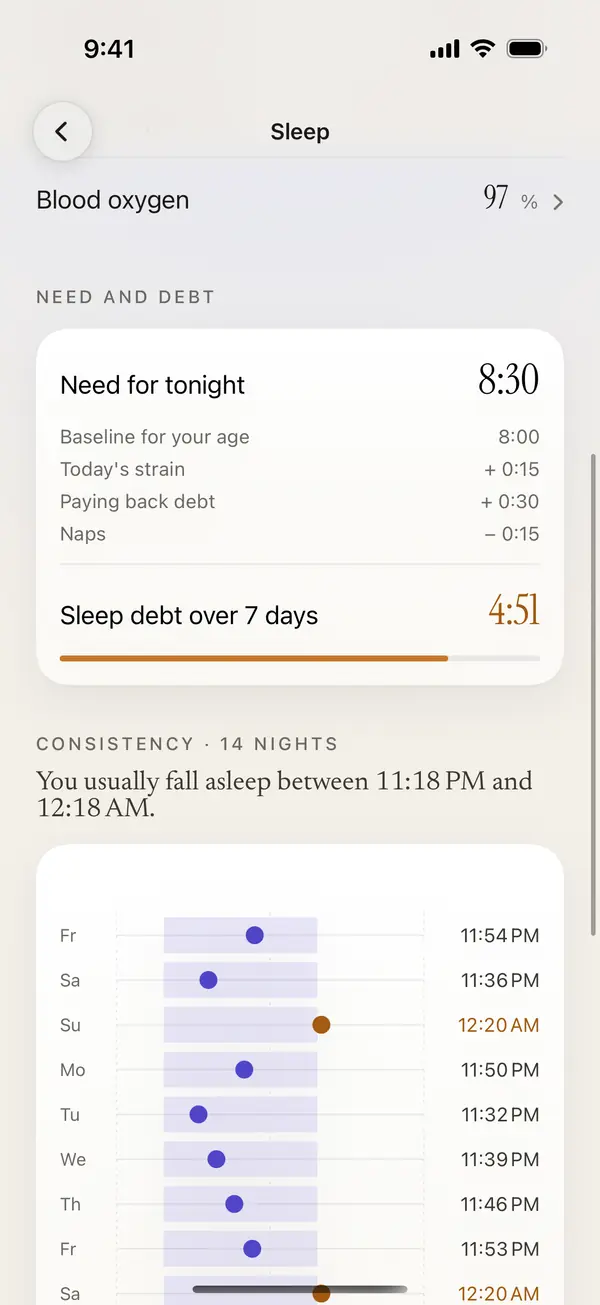
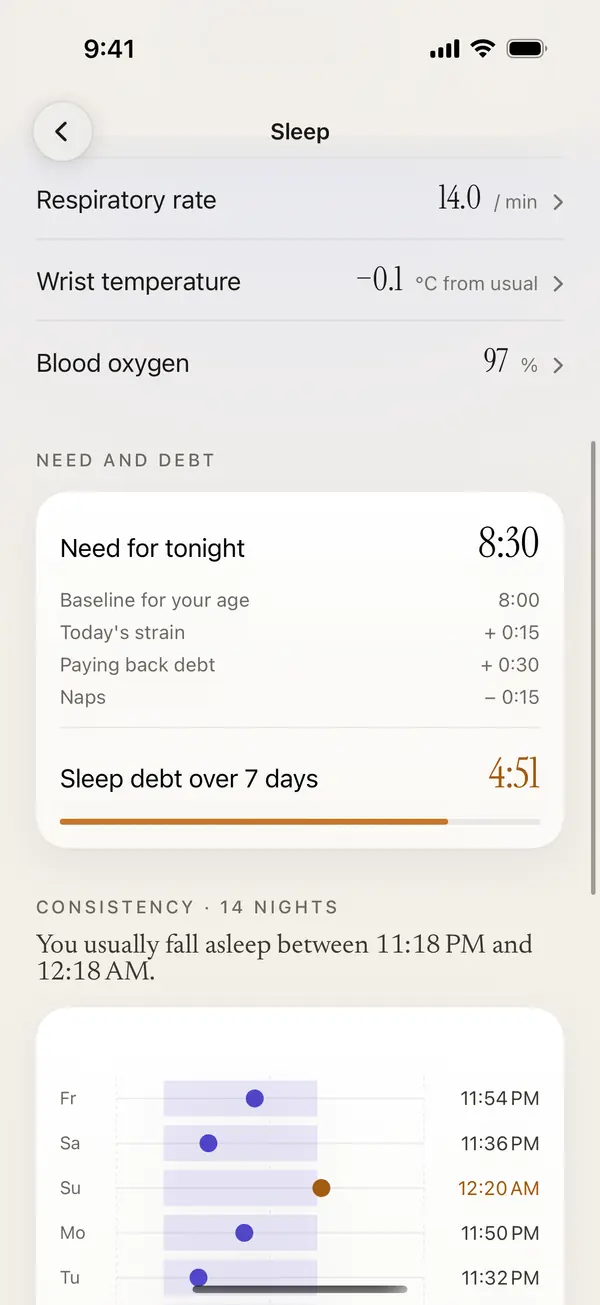
Sleep: the sample night's stages; website cards copy the phone screen beside them (#446)
* Sleep: the sample night's stages through the night, and the website's sleep card in the app's rows

The sample day had no night detail, so the app's sleep screen (and the website phone) showed no stage
rows; DemoData.night gives it the same night's segments. The website's sleep card draws the stages one
row each like the app's Hypnogram, with the app's stage colours and bars against the longest stage.

Claude-Session: https://claude.ai/code/session_01VXZ2habenS74XXVjvWeuNu

* Website: the sleep need, readiness and food cards copy the screen on the phone beside them

Need and debt as on Spánek, What makes up today's score as on Připravenost, and the Food tab's
number, coach and macros (the sample day's 177/84/36 g) instead of cards from other screens.

Claude-Session: https://claude.ai/code/session_01VXZ2habenS74XXVjvWeuNu

* Website: the sleep screens again, now with the sample night's stages (iOS run 40209564135)

Claude-Session: https://claude.ai/code/session_01VXZ2habenS74XXVjvWeuNu

---------

diff --git a/src/site-demos.js b/src/site-demos.js
@@ -71,24 +71,29 @@ const AURIN = '<span class="lg au"><svg viewBox="6 10 88 80"><path d="M6 46A36 3
 const STATUS = '<div class="sb"><span>9:41</span><span class="sbi"><svg viewBox="0 0 18 12"><rect x="0" y="8" width="3" height="4" rx=".7"/><rect x="5" y="5.5" width="3" height="6.5" rx=".7"/><rect x="10" y="3" width="3" height="9" rx=".7"/><rect x="15" y="0" width="3" height="12" rx=".7"/></svg><svg viewBox="0 0 24 12"><rect x=".5" y=".5" width="20" height="11" rx="3" fill="none" stroke="currentColor"/><rect x="2" y="2" width="16" height="8" rx="1.8"/><rect x="22" y="4" width="1.5" height="4" rx=".7"/></svg></span></div>';
 
 // ---- Sleep (SleepPlanner.swift, HealthDetails.swift) ----
-// The night: stages in the app's indigo shades, the hypnogram drawing itself, the length counting up.
+// The night: stages in the app's indigo shades, the stages through the night one row each (Hypnogram), the
+// length counting up. NIGHT is the sample night's segments (DemoData.night): stage, start, end in minutes.
+const NIGHT = [['l', 0, 12], ['d', 12, 40], ['l', 40, 62], ['r', 62, 74], ['a', 74, 77], ['l', 77, 100], ['d', 100, 130],
+  ['l', 130, 158], ['r', 158, 178], ['l', 178, 210], ['d', 210, 228], ['l', 228, 262], ['r', 262, 284], ['a', 284, 290],
+  ['l', 290, 330], ['d', 330, 337], ['l', 337, 370], ['r', 370, 400], ['a', 400, 405], ['l', 405, 436], ['r', 436, 446], ['a', 446, 449]];
 const sleepNight = `<div class="dm pad">
 <div class="sl">Sleep · Thursday night</div>
 <div class="row base"><span class="num big"${n(400, 432, 150, 1300, 'hmc')}>7:12</span><span class="pill ind"${at('1300')}>score 82</span></div>
-<svg class="hyp" viewBox="0 0 340 70" aria-hidden="true"><path pathLength="1"${at('300')} d="M2 20 H22 V34 H48 V58 H86 V34 H110 V8 H126 V34 H150 V58 H176 V34 H204 V8 H226 V34 H252 V46 H262 V34 H286 V8 H312 V20 H338"/></svg>
-<div class="stg">${[['Deep', '1:23', 19, 'd'], ['REM', '1:34', 22, 'r'], ['Light', '4:15', 59, 'l'], ['Awake', '0:17', 4, 'a']].map(([k, v, p, c], i) => `<div class="sr"><span>${k}</span><i class="bar"><b class="${c}" style="--w:${p}%"${at(String(900 + i * 220))}></b></i><span class="num">${v}</span><span class="mut">${p} %</span></div>`).join('')}</div>
+<div class="hg" aria-hidden="true"><div class="hgl"><span>Awake</span><span>REM</span><span>Light</span><span>Deep</span></div><div class="hgt">${NIGHT.map(([t, s, e], i) => `<i class="${t}" style="left:${(s / 449 * 100).toFixed(2)}%;width:${Math.max(0.5, (e - s) / 449 * 100).toFixed(2)}%"${at(String(300 + i * 60))}></i>`).join('')}</div></div>
+<div class="hgx" aria-hidden="true"><span>11:48 PM</span><span>7:02 AM</span></div>
+<div class="stg">${[['Deep', '1:23', 83, '19 %', 'd'], ['REM', '1:34', 94, '22 %', 'r'], ['Light', '4:15', 255, '59 %', 'l'], ['Awake', '0:17', 17, '3×', 'a']].map(([k, v, m, p, c], i) => `<div class="sr"><span>${k}</span><i class="bar"><b class="${c}" style="--w:${(m / 255 * 100).toFixed(1)}%"${at(String(900 + i * 220))}></b></i><span class="num">${v}</span><span class="mut">${p}</span></div>`).join('')}</div>
 </div>`;
 
 // "Why 8 h 30": the need for tonight built up row by row.
 const sleepNeed = `<div class="dm pad">
-<div class="row sp"><div class="sl">Why <span${n(480, 510, 600, 2600, 'hm')}>8 h 30</span></div><span class="mut s">tonight</span></div>
-<div class="list">
-<div class="li"${at('100')}><span>Your goal</span><b class="mono">8 h 00</b></div>
-<div class="li"${at('900')}><span>Today’s strain</span><b class="mono ind">+15 min</b></div>
-<div class="li"${at('1700')}><span>Sleep debt</span><b class="mono ind">+30 min</b></div>
-<div class="li"${at('2500')}><span>Nap</span><b class="mono grn">−15 min</b></div>
-</div>
-<div class="tot"${at('3300')}><span class="sent">Go to bed at</span><span class="num">10:10 PM</span></div>
+<div class="sl">Need and debt</div>
+<div class="nd"><div class="row sp base"><b class="nt">Need for tonight</b><span class="num md"${n(480, 510, 600, 2600, 'hmc')}>8:30</span></div>
+<div class="nr"${at('100')}><span>Baseline for your age</span><span class="mono">8:00</span></div>
+<div class="nr"${at('900')}><span>Today’s strain</span><span class="mono">+ 0:15</span></div>
+<div class="nr"${at('1700')}><span>Paying back debt</span><span class="mono">+ 0:30</span></div>
+<div class="nr"${at('2500')}><span>Naps</span><span class="mono">− 0:15</span></div>
+<div class="row sp base ndd"${at('3300')}><b class="nt">Sleep debt over 7 days</b><span class="num md amb">4:51</span></div>
+<i class="kbar"><b style="--w:82%"${at('3300')}></b></i></div>
 </div>`;
 
 // The bedtime dial: 24 h, midnight on top, the night arc in indigo from the moon to the sun. It turns on its
@@ -120,11 +125,11 @@ const tonight = `<div class="dm pad">
 const range = (pos, color, start) => `<i class="rb"><b></b><u style="--x:${pos}%;--c:var(--${color})"${at(String(start))}></u></i>`;
 const HIST = [65, 69, 60, 82, 67, 71, 62, 53, 75, 80, 63, 54, 77, 78];
 const readyParts = `<div class="dm pad">
-<div class="row sp"><div class="sl">Last 14 days</div><span class="mut s">average 68</span></div>
-<div class="hist">${HIST.map((v, i) => `<i style="--h:${v}%;--c:var(--${v >= 67 ? 'green' : v >= 34 ? 'amber-bar' : 'rust'})"${i === 13 ? ' class="today"' : ''}${at(String(100 + i * 70))}></i>`).join('')}</div>
-<div class="row base"><span class="num big"${n(0, 78, 1200, 1300, 'i')}>78</span><span class="pill grn"${at('2300')}>high</span><span class="mut s">today</span></div>
-${[['Sleep', '7:12', 'your normal 7:53–9:11 h', 'rust', 12, '−4 points'], ['Resting heart rate', '48 bpm', 'your normal 50–54 /min', 'green', 8, '+3 points'], ['HRV', '64 ms', 'your normal 55–61 ms', 'green', 72, '+9 points']]
-    .map(([k, v, nm, c, x, pt], i) => `<div class="pr2"${at(String(2600 + i * 700))}><div><b>${k}</b><span class="mut s">${nm}</span></div><span class="num md">${v}</span>${range(x, c, 2900 + i * 700)}<span class="pts" style="color:var(--${c})">${pt}</span></div>`).join('')}
+<div class="sl">Readiness</div>
+<div class="row base"><span class="num big"${n(0, 78, 200, 1300, 'i')}>78</span><span class="pill grn"${at('1300')}>high</span></div>
+<div class="sl">What makes up today’s score</div>
+${[['Sleep', '7:12', 'your normal 7:53–9:11 h', '↓ below normal', 'rust', 12, '−4 readiness points'], ['Resting heart rate', '48 bpm', 'your normal 50–54 /min', '↓ below normal', 'green', 20, '+3 readiness points'], ['HRV', '64 ms', 'your normal 55–61 ms', '↑ above normal', 'green', 83, '+9 readiness points']]
+    .map(([k, v, nm, dir, c, x, pt], i) => `<div class="pr3"${at(String(1600 + i * 700))}><div class="row sp base"><b>${k}</b><span class="num md">${v}</span></div><div class="row sp"><span class="mut s">${nm}</span><span class="s" style="color:var(--${c})">${dir}</span></div>${range(x, c, 1900 + i * 700)}<span class="pts" style="color:var(--${c})">${pt}</span></div>`).join('')}
 </div>`;
 
 const journal = `<div class="dm pad">
@@ -274,11 +279,10 @@ ${[['Squat', 1], ['Bench press', 1], ['Bent-over rows', 0]].map(([k, up], i) => 
 
 // ---- Food (Widgets.swift FoodWidget, FoodView.swift, BarcodeScanSheet.swift, PortionWheel chips) ----
 const foodTarget = `<div class="dm pad">
-<div class="row sp"><span class="wh"><i style="background:var(--amber-bar)"></i>Food and drinks</span><span class="amb s b"${at('1500')}>+350 training</span></div>
-<div class="row base"><span class="num big2">1,380</span><span class="num faint md">/ <span${n(2300, 2650, 1500, 1100, 'i')}>2,650</span> kcal</span></div>
-<i class="kbar"><b style="--w:${1380 / 2300 * 100}%" class="k1"${at('1500:t')}></b></i>
-<div class="mac">${[['Protein', 112, 150, 'brown'], ['Carbs', 205, 330, 'amber-bar'], ['Fat', 37, 80, 'gold'], ['Water', '1.8', '2.5 l', 'blue']].map(([k, v, t, c]) => `<div><span class="mut s">${k}</span><span class="num md">${v}<small> / ${t}</small></span><i class="mb"><b style="--w:${typeof v === 'number' ? v / t * 100 : 72}%;background:var(--${c})"></b></i></div>`).join('')}</div>
+<div class="row base"><span class="num big">1,380</span><span class="fo mut">of <span${n(2300, 2650, 1500, 1100, 'i')}>2,650</span><br>kcal</span></div>
 <div class="coach"${at('2400')}><div class="ch4">${ic('spark')}Coach</div><p class="sent" data-type="2700,3000">Training day: 350 kcal more. 1,270 kcal left, an afternoon snack of about 360 kcal.</p></div>
+<div class="mac3">${[['Carbs', 177, 330, 'carbs'], ['Protein', 84, 150, 'protein'], ['Fat', 36, 80, 'fat']].map(([k, v, t, c]) => `<div><span class="mut s"><i style="background:var(--${c})"></i>${k}</span><span class="num md">${v}<small> / ${t} g</small></span><i class="mb"><b style="--w:${v / t * 100}%;background:var(--${c})"></b></i></div>`).join('')}</div>
+<div class="mut s alln">All nutrients ›</div>
 </div>`;
 
 // AddFoodSheet.swift ("Co přidáme?": the meal, the search, six tiles, the foods list), then BarcodeScanSheet.swift:
@@ -375,13 +379,13 @@ export const demoCss = `
 .wait{transition:opacity .45s ease,transform .55s cubic-bezier(.16,1,.3,1)}
 
 /* Sleep. */
-.hyp{display:block;width:100%;height:62px;margin:10px 0 6px}
-.hyp path{fill:none;stroke:var(--indigo);stroke-width:2.2;stroke-linejoin:round;stroke-dasharray:1;stroke-dashoffset:0}
-.js .hyp path{opacity:1!important;transform:none!important;stroke-dashoffset:1;transition:stroke-dashoffset 1.8s ease}.js .hyp path.in{stroke-dashoffset:0}
+.hg{display:grid;grid-template-columns:44px 1fr;gap:6px;margin:12px 0 2px}.hgl{display:grid;grid-template-rows:repeat(4,18px);font-size:11px;color:var(--muted);align-items:center}
+.hgt{position:relative;height:72px}.hgt i{position:absolute;height:13px;border-radius:3px}.hgt .a{top:2.5px;background:#E0A46A}.hgt .r{top:20.5px;background:#7C74E8}.hgt .l{top:38.5px;background:#A9B8EC}.hgt .d{top:56.5px;background:#3B3A99}
+.hgx{display:flex;justify-content:space-between;margin:0 0 12px 50px;font-size:11px;color:var(--faint,var(--muted))}
 .stg{display:grid;gap:7px}.sr{display:grid;grid-template-columns:52px 1fr 40px 38px;align-items:center;gap:8px;font-size:13.5px}.sr .num{font-size:17px;text-align:right}.sr .mut{font-size:12px;text-align:right}
 .bar{display:block;height:7px;border-radius:9px;background:var(--track);overflow:hidden}.bar b{display:block;height:100%;width:var(--w);border-radius:9px;transition:width 1s cubic-bezier(.16,1,.3,1)!important}
 .js .bar b:not(.in){opacity:1!important;transform:none!important;width:0}
-.bar .d{background:var(--indigo)}.bar .r{background:color-mix(in srgb,var(--indigo) 70%,#fff)}.bar .l{background:color-mix(in srgb,var(--indigo) 42%,#fff)}.bar .a{background:var(--amber-bar)}
+.bar .d{background:#3B3A99}.bar .r{background:#7C74E8}.bar .l{background:#A9B8EC}.bar .a{background:#E0A46A}
 .tot{display:flex;justify-content:space-between;align-items:baseline;margin-top:10px;padding-top:12px;border-top:1px solid var(--line)}.tot .sent{font-size:19px}.tot .num{font-size:30px;color:var(--indigo)}
 .dialbox{padding-bottom:12px}
 .dial{position:relative;width:250px;height:250px;margin:0 auto;touch-action:none}
@@ -412,7 +416,11 @@ export const demoCss = `
 .js .rb u{opacity:1!important;transform:none!important}.rb u.in,html:not(.js) .rb u{left:var(--x)}
 .hist{display:flex;align-items:flex-end;gap:4px;height:70px;margin-bottom:10px}.hist i{flex:1;height:var(--h);border-radius:3px 3px 1px 1px;background:var(--c);opacity:.78;transform-origin:bottom;transition:transform .6s cubic-bezier(.16,1,.3,1),opacity .3s!important}
 .hist i.today{opacity:1}.js .hist i.wait:not(.in){transform:scaleY(0)}
-.pr2{display:grid;grid-template-columns:1fr auto;align-items:center;column-gap:10px;padding:8px 0 4px;border-top:1px solid var(--line)}.pr2 b{display:block;font-size:14px}.pr2 .num.md{font-size:20px}.pr2 .rb{grid-column:1;margin:6px 0}.pr2 .pts{grid-column:2;margin:0}
+.pr2{display:grid;grid-template-columns:1fr auto;align-items:center;column-gap:10px;padding:8px 0 4px;border-top:1px solid var(--line)}.pr2 b{display:block;font-size:14px}.pr2 .num.md{font-size:20px}.pr2 .rb{grid-column:1;margin:6px 0}.pr2 .nd{padding:14px 16px;border-radius:16px;background:var(--panel2,color-mix(in srgb,var(--text) 3%,transparent))}.nt{font-weight:500;font-size:15px}.nr{display:flex;justify-content:space-between;font-size:12.5px;color:var(--muted);padding:3px 0}
+.ndd{margin-top:10px;padding-top:12px;border-top:1px solid var(--line)}.num.amb{color:var(--amber)}.nd .kbar{margin-top:8px}.nd .kbar b{width:0}.nd .kbar b.in,html:not(.js) .nd .kbar b{width:var(--w)}
+.pr3{padding:10px 0 12px;border-top:1px solid var(--line)}.pr3:first-of-type{border-top:0}.pr3 b{font-weight:500;font-size:15px}.pr3 .num.md{font-size:20px}.pr3 .rb{margin:10px 0 8px}
+.fo{font-size:12.5px;line-height:1.3;margin-left:10px}.mac3{display:grid;grid-template-columns:repeat(3,1fr);gap:12px;margin-top:14px;padding-top:12px;border-top:1px solid var(--line)}.mac3>div{display:flex;flex-direction:column;gap:3px}.mac3 .mut i{display:inline-block;width:6px;height:6px;border-radius:50%;margin-right:5px;vertical-align:middle}.mac3 small{font-family:var(--num);font-size:12px;color:var(--muted)}.alln{margin-top:12px}
+.pts{grid-column:2;margin:0}
 .pts{display:table;margin-left:auto;padding:3px 10px;border-radius:999px;background:color-mix(in srgb,var(--text) 6%,transparent);font-size:12px;font-weight:500}
 .jt{display:flex;flex-wrap:wrap;gap:6px}
 .jc{display:inline-flex;align-items:center;gap:6px;height:30px;padding:0 11px 0 6px;border-radius:999px;background:var(--bg);font-size:13px}

diff --git a/ios-native/Loadwise/Data/DemoData.swift b/ios-native/Loadwise/Data/DemoData.swift
@@ -59,6 +59,14 @@ enum DemoData {
 {"date": "2026-10-08", "values": [["ADAPTIVNÍ SILOVÝ TRÉNINK"], ["Celé tělo  •  08. 10. 2026"], ["Datum", "2026-10-08", "Plán", "Celé tělo", "Nohy", "NORMÁLNĚ", "Load", "0,95"], ["Poznámka", "Nohy od pondělí v klidu, v sobotu delší běh: dřep ve střední zátěži."], [], [], ["Typ", "Cvik", "Série", "Plán kg", "Plán reps", "Skutečně kg", "Skutečně reps", "RPE", "Hotovo", "Poznámka", "Video", "Do selhání", "Supersérie"], ["WARMUP", "Dřep", "1", "40", "8", "40", "8", "", "TRUE", "", "", "FALSE", ""], ["WORK", "Dřep", "1", "80", "6-8", "80", "8", "7", "TRUE", "", "", "FALSE", ""], ["WORK", "Dřep", "2", "80", "6-8", "", "", "", "FALSE", "", "", "FALSE", ""], ["WORK", "Dřep", "3", "80", "6-8", "", "", "", "FALSE", "", "", "FALSE", ""], ["WORK", "Tlak na lavici", "1", "62,5", "8-10", "", "", "", "FALSE", "", "", "FALSE", "A"], ["WORK", "Tlak na lavici", "2", "62,5", "8-10", "", "", "", "FALSE", "", "", "FALSE", "A"], ["WORK", "Přítahy v předklonu", "1", "50", "10", "", "", "", "FALSE", "", "", "FALSE", "A"], ["WORK", "Přítahy v předklonu", "2", "50", "10", "", "", "", "FALSE", "", "", "FALSE", "A"]]}
 """#
 
+    /// Sample Spánek → the night's stages in the shape of /app/api/night (the same night as health:
+    /// 83 min deep, 94 REM, 255 light, 17 awake); the website draws the same night (src/site-demos.js).
+    static let night: NightDetail = decode(nightJSON)
+
+    private static let nightJSON = #"""
+{"night":{"bedClock":1428,"wakeClock":422,"segments":[{"type":"LIGHT","s":0,"e":12},{"type":"DEEP","s":12,"e":40},{"type":"LIGHT","s":40,"e":62},{"type":"REM","s":62,"e":74},{"type":"AWAKE","s":74,"e":77},{"type":"LIGHT","s":77,"e":100},{"type":"DEEP","s":100,"e":130},{"type":"LIGHT","s":130,"e":158},{"type":"REM","s":158,"e":178},{"type":"LIGHT","s":178,"e":210},{"type":"DEEP","s":210,"e":228},{"type":"LIGHT","s":228,"e":262},{"type":"REM","s":262,"e":284},{"type":"AWAKE","s":284,"e":290},{"type":"LIGHT","s":290,"e":330},{"type":"DEEP","s":330,"e":337},{"type":"LIGHT","s":337,"e":370},{"type":"REM","s":370,"e":400},{"type":"AWAKE","s":400,"e":405},{"type":"LIGHT","s":405,"e":436},{"type":"REM","s":436,"e":446},{"type":"AWAKE","s":446,"e":449}],"hr":null,"stats":{"wakeups":3,"avgHr":null,"lowHr":null,"lowHrAt":null,"hrv":null,"hrvLow":null,"hrvHigh":null}}}
+"""#
+
     /// Sample Trénink → Svaly in the shape of /app/api/muscles (generated with
     /// src/muscle-fatigue.js from a made-up leg day, upper-body day and run).
     static let muscles: MuscleFatigue = {

diff --git a/ios-native/LoadwiseTests/SnapshotTests.swift b/ios-native/LoadwiseTests/SnapshotTests.swift
@@ -83,7 +83,7 @@ final class SnapshotTests: XCTestCase {
         let health = DemoData.health
         try render("health", glow: Palette.Glow.health) { NavigationStack { HealthContent(health: health) }.padding(.top, 50).padding(.bottom, 40).environment(AppModel(demo: true)) }
         try render("health-readiness", glow: Palette.Glow.health) { ReadinessDetailContent(health: health).padding(24).padding(.top, 30) }
-        try render("health-sleep", glow: Palette.Glow.health) { SleepDetailContent(health: health, detail: nil).padding(24).padding(.top, 30) }
+        try render("health-sleep", glow: Palette.Glow.health) { SleepDetailContent(health: health, detail: DemoData.night).padding(24).padding(.top, 30) }
         for metric in HealthMetric.allCases {
             try render("health-" + metric.rawValue, glow: Palette.Glow.health) { MetricDetailContent(metric: metric, health: health).padding(24).padding(.top, 30) }
         }
@@ -226,7 +226,7 @@ final class SnapshotTests: XCTestCase {
         try render("site-today", glow: Palette.Glow.today) { TodayContent(today: DemoData.today).padding(.top, 50).padding(.bottom, 40).environment(AppModel(demo: true)).environment(\.locale, L10n.locale) }
         // Whole screens for the website's scenes, longer than the simulator's screenshots.
         let health = DemoData.health
-        try render("site-sleep", glow: Palette.Glow.health) { SleepDetailContent(health: health, detail: nil).padding(24).padding(.top, 30).environment(\.locale, L10n.locale) }
+        try render("site-sleep", glow: Palette.Glow.health) { SleepDetailContent(health: health, detail: DemoData.night).padding(24).padding(.top, 30).environment(\.locale, L10n.locale) }
         try render("site-readiness", glow: Palette.Glow.health) { ReadinessDetailContent(health: health).padding(24).padding(.top, 30).environment(\.locale, L10n.locale) }
         try render("site-food", glow: Palette.Glow.food) { FoodContent(food: DemoData.food).padding(.top, 50).padding(.bottom, 40).environment(AppModel(demo: true)).environment(\.locale, L10n.locale) }
         try render("site-gym", glow: Palette.Glow.training) {

diff --git a/ios-native/Loadwise/Screens/SubscriptionView.swift b/ios-native/Loadwise/Screens/SubscriptionView.swift
@@ -496,7 +496,7 @@ struct AppTour: View {
         case .training: TrainingContent(training: DemoData.training).padding(.top, 54)
         case .food: FoodContent(food: DemoData.food).padding(.top, 54)
         case .health: HealthContent(health: DemoData.health).padding(.horizontal, 24).padding(.top, 70)
-        case .sleep: detail { SleepDetailContent(health: DemoData.health, detail: nil) }
+        case .sleep: detail { SleepDetailContent(health: DemoData.health, detail: DemoData.night) }
         }
     }
 

diff --git a/ios-native/Loadwise/Screens/HealthDetails.swift b/ios-native/Loadwise/Screens/HealthDetails.swift
@@ -13,7 +13,8 @@ struct SleepDetailView: View {
             SleepDetailContent(health: health, detail: detail)
         }
         .task {
-            guard !model.demo, detail == nil, health.sleep.night != nil else { return }
+            guard detail == nil, health.sleep.night != nil else { return }
+            if model.demo { detail = DemoData.night; return }
             detail = try? await model.api.night(date: health.date)
         }
     }
